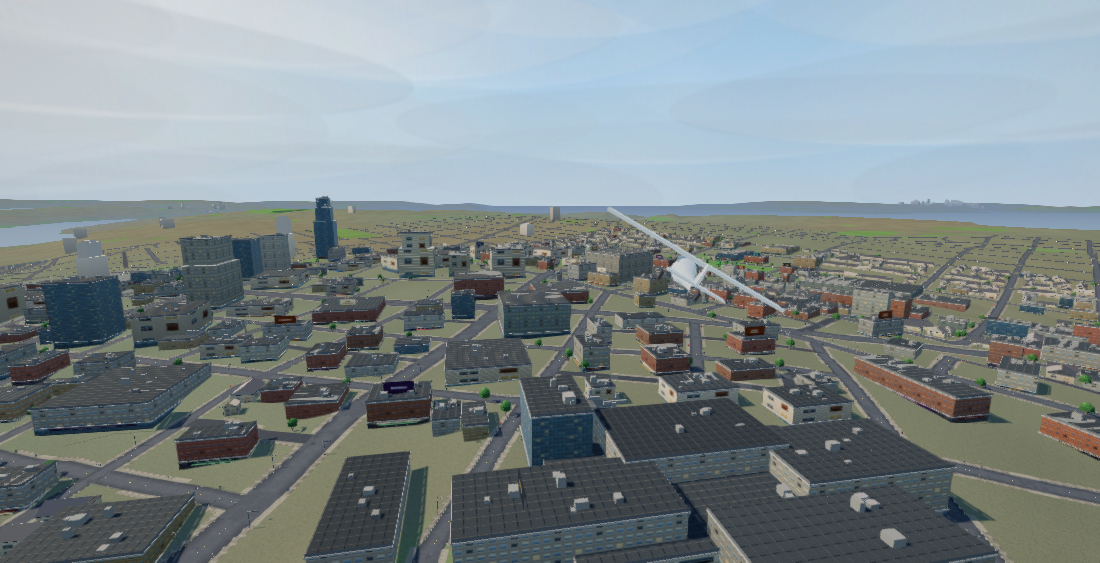
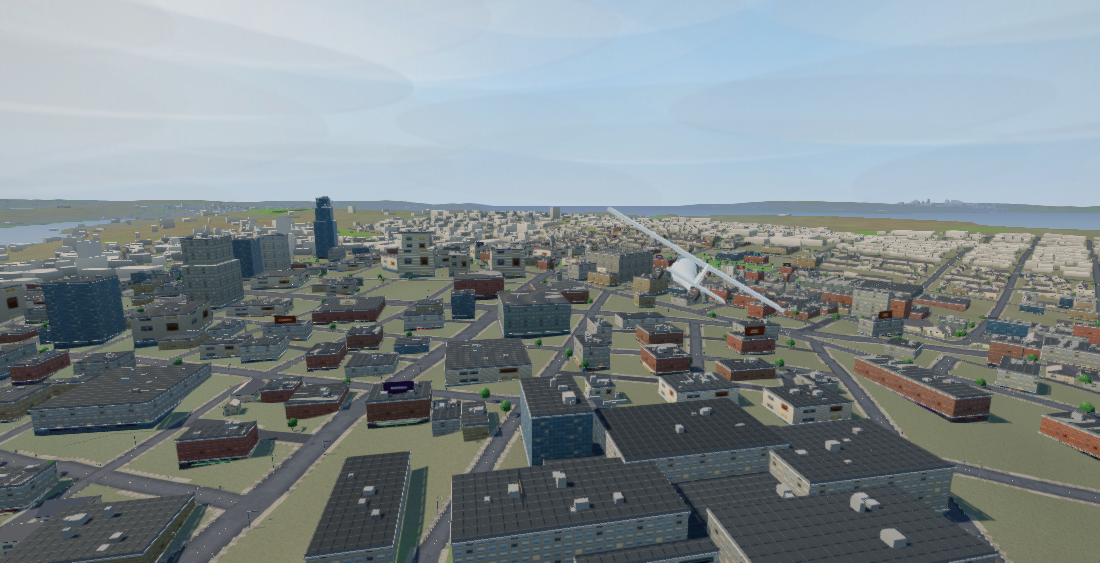
Auto: the city no longer pops in from the air, and warping cannot demote your graphics
Pop-in had two layers. The far skyline's gate was pure height at 30 m, so a
10 m Boeing shed the size of a city block appeared at the 800 m ring while
a skinny tower never did -- from a plane, footprint is what you see. The
gate is now height OR footprint (16 m / 1400 m2), which admits 4032
buildings as plain ~12-triangle boxes in the same single draw. And the mid
ring, which drew roads over bare ground, now carries MASSING: every
building the skyline skips, merged into one box mesh per chunk. At
800-1600 m a box is indistinguishable from the building; when the chunk
promotes, the swap reads as detail arriving rather than a city appearing.

Measured: draw calls flat (204 steady), triangles +7% -- the right trade on
a draw-bound target.

The warp demotion: autoQuality watched fps with no idea WHY a frame was
slow. A warp leaves the streamer dozens of chunks behind, the rebuild burst
is CPU that a lower tier cannot help, and the ladder only went down -- so
teleporting could hand you `low` for the rest of the session. Two changes:
the meter holds at zero while the streamer is more than 6 chunks behind
(frame rate says nothing about the device then), and the ladder climbs back
up after 12 s sustained above 57 fps, so any surviving false demotion is a
dip instead of a life sentence.

verify.mjs 0 exceptions. v56.

Claude-Session: https://claude.ai/code/session_01V56RnrzLsQEVAyY6wa5w7B

Changed region(s): [[0.0, 0.3623, 1.0, 0.5133], [0.0618, 0.3925, 0.0927, 0.4227]]

diff --git a/apps/auto/src/main.js b/apps/auto/src/main.js
@@ -215,6 +215,7 @@ let pickups = [];
 const LOOK_AHEAD = new THREE.Vector3();
 let last = 0;
 let accumFps = 0, frames = 0, fps = 60;
+let streamBehind = 0;
 let startedAt = 0;
 
 async function boot() {
@@ -1017,7 +1018,7 @@ function frame(now) {
     marker.material.opacity = 0.22 + Math.sin(now * 0.004) * 0.1;
   }
 
-  world.update(p.x, p.z, fps < 45 ? 1 : 2);
+  streamBehind = world.update(p.x, p.z, fps < 45 ? 1 : 2);
 
   player.applyCamera(camera);
   // Aim the shadow box down the view, not at the player's feet. Centred on the
@@ -1107,17 +1108,33 @@ let tierIdx = 0;
 let slowFor = 0;
 let qualityLocked = false;
 
+let fastFor = 0;
 function autoQuality(dt) {
-  if (qualityLocked || tierIdx >= TIERS.length - 1) return;
+  if (qualityLocked) return;
   if (performance.now() - startedAt < 4000) return;
   if (window.__noAutoQuality) return;
+  // A warp or respawn leaves the streamer dozens of chunks behind, and the
+  // rebuild burst is CPU, not rendering: stepping the tier down cannot help
+  // it, and it used to fire here and then stick (the ladder only went down).
+  // While the streamer is catching up, the frame rate says nothing about the
+  // device, so the meter is held at zero.
+  if (streamBehind > 6) { slowFor = 0; fastFor = 0; return; }
   slowFor = fps < 45 ? slowFor + dt : 0;
   // 2.5 s at under 40 fps is a long time to be stuttering before anything
   // happens, and 40 is already well into "feels wrong" -- by the time it fired
   // the player had formed an opinion.
-  if (slowFor > 1.2) {
-    slowFor = 0;
+  if (slowFor > 1.2 && tierIdx < TIERS.length - 1) {
+    slowFor = 0; fastFor = 0;
     applyQuality(TIERS[++tierIdx], false);
+    hud.showToast(`Graphics: ${TIERS[tierIdx]}`);
+  }
+  // ...and the ladder climbs back. A tier drop caused by a transient -- the
+  // post-warp burst before the guard above existed, a thermal dip -- was a
+  // life sentence. Twelve seconds sustained over 57 fps is not a transient.
+  fastFor = fps > 57 ? fastFor + dt : 0;
+  if (fastFor > 12 && tierIdx > 0) {
+    fastFor = 0; slowFor = 0;
+    applyQuality(TIERS[--tierIdx], false);
     hud.showToast(`Graphics: ${TIERS[tierIdx]}`);
   }
 }

diff --git a/apps/auto/src/world.js b/apps/auto/src/world.js
@@ -462,7 +462,12 @@ export class World {
   buildSkyline() {
     const b = new Builder(false);
     for (const bd of this.city.buildings) {
-      if (bd.h < 30) continue;
+      // Height OR footprint. The gate was pure height at 30 m, so a 10 m
+      // Boeing shed the size of a city block popped in at the 800 m ring while
+      // a skinny 32 m tower never did -- from a plane, footprint is what you
+      // see. 4032 buildings pass; the sub-30 additions take the plain-box path
+      // (plant and crown are height-gated) at ~12 triangles each.
+      if (bd.h < 16 && bd.w * bd.d < 1400) continue;
       const v = 0.86 + hash2(bd.seed, 17) * 0.26;
       const col = bd.style === 'tower'
         ? [0.54 * v, 0.58 * v, 0.63 * v]
@@ -687,6 +692,24 @@ export class World {
       }
       yield;
       this.meshProps(flat, glow, ch, cx, cz);
+      yield;
+    } else {
+      // Mid-ring massing: every building the far skyline skips, as one merged
+      // box mesh per chunk. From the air the old mid ring was bare ground, so
+      // the whole housing stock materialised at the 800 m detail ring -- the
+      // pop-in. A box at 800-1600 m is indistinguishable from the real
+      // building at that size; when the chunk promotes, the swap reads as
+      // detail arriving, not a city appearing. ~12 triangles a building, one
+      // draw a chunk.
+      since = 0;
+      for (const bi of ch.buildings) {
+        const bd = city.buildings[bi];
+        if (bd.h >= 16 || bd.w * bd.d >= 1400) continue;   // skyline draws these
+        const t = 0.5 + hash2(bd.seed, 3) * 0.18;
+        flat.box(bd.x, bd.y + bd.h / 2, bd.z, bd.w, bd.h, bd.d, bd.rot,
+          [0.60 * t + 0.28, 0.58 * t + 0.27, 0.55 * t + 0.26], { ao: 0.35 });
+        if (++since >= 40) { since = 0; yield; }
+      }
       yield;
     }
 

diff --git a/apps/auto/sw.js b/apps/auto/sw.js
@@ -23,7 +23,7 @@
 // launch to prove it hadn't changed, and PINNED is wrong too: these URLs carry
 // no version, so a bump has to be able to replace them. The map only changes
 // when tools/ re-imports it, and that comes with a bump.
-const CACHE = 'auto-v55';
+const CACHE = 'auto-v56';
 const PINNED = ['vendor/three-0.160.0.module.js'];
 const isMapData = (url) => new URL(url).pathname.includes('/apps/auto/data/');
 const SHELL = ['./', './index.html', './manifest.webmanifest',

diff --git a/apps/auto/index.html b/apps/auto/index.html
@@ -414,7 +414,7 @@
     <div id="loadTrack"><div id="loadBar"></div></div>
     <div id="loadMsg">Starting up</div>
     <!-- Bumped once per change, in step with CACHE in sw.js. See CLAUDE.md. -->
-    <div id="build">v55</div>
+    <div id="build">v56</div>
     <div id="attrib">Map data © OpenStreetMap contributors (ODbL) · elevation USGS 3DEP</div>
   </div>
 
